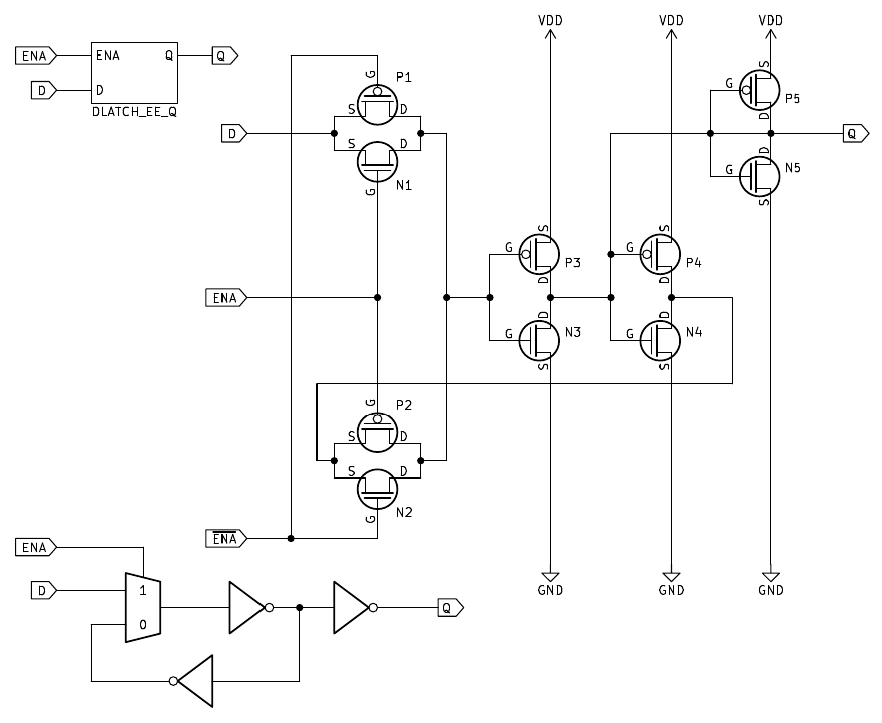
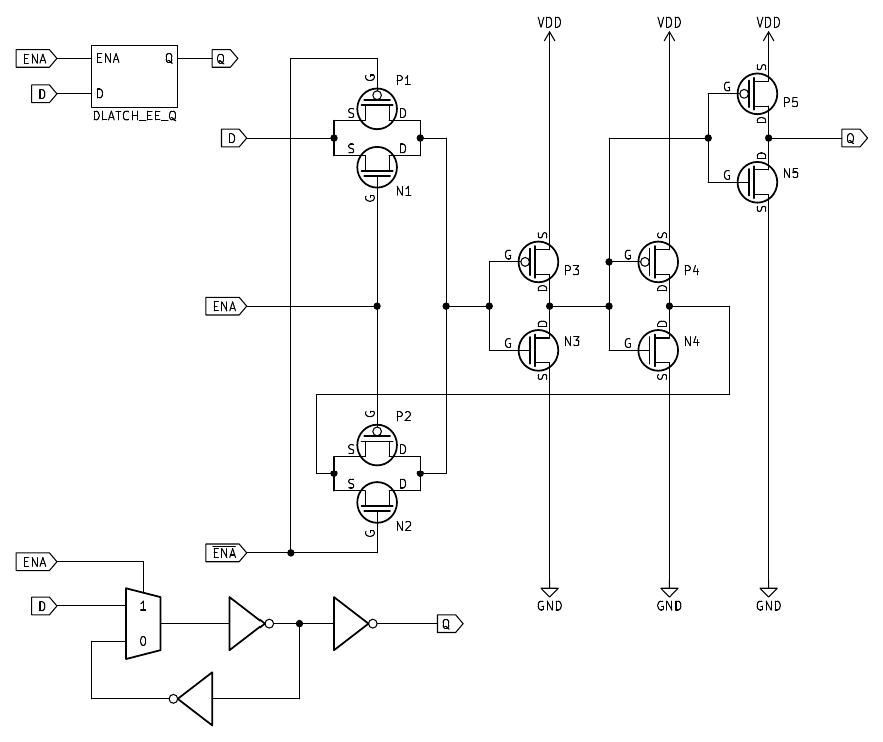
Fix DLATCH_EE_Q schematic

diff --git a/html/doc/dmg_cells.html b/html/doc/dmg_cells.html
@@ -4043,7 +4043,7 @@ high again.</td></tr>
 </table></td></tr>
 </table>
 <p><img src="img/cells/dlatch_ee_q_layout.png?v=0" alt=""></p>
-<p><img src="img/cells/dlatch_ee_q_sch.png?v=0" alt=""></p>
+<p><img src="img/cells/dlatch_ee_q_sch.png?v=1" alt=""></p>
 <p>Instances:
 <a href="/dmg_cpu_b_map/?view=c:legu">LEGU</a>
 <a href="/dmg_cpu_b_map/?view=c:luzo">LUZO</a>
